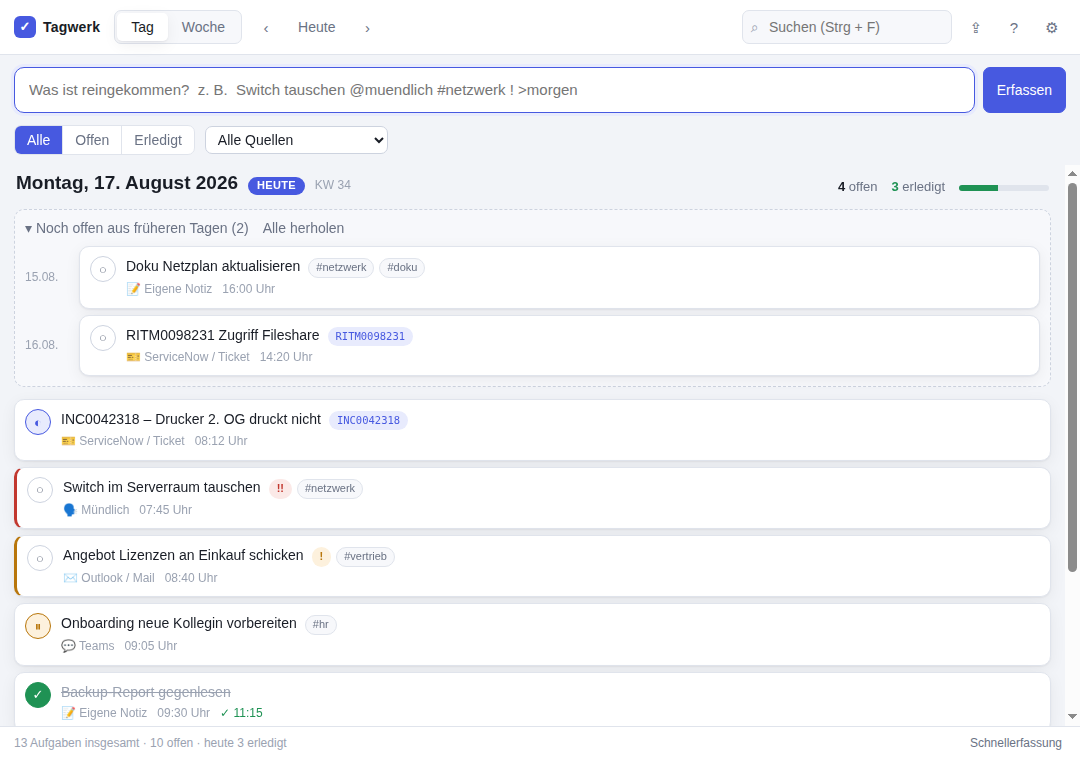
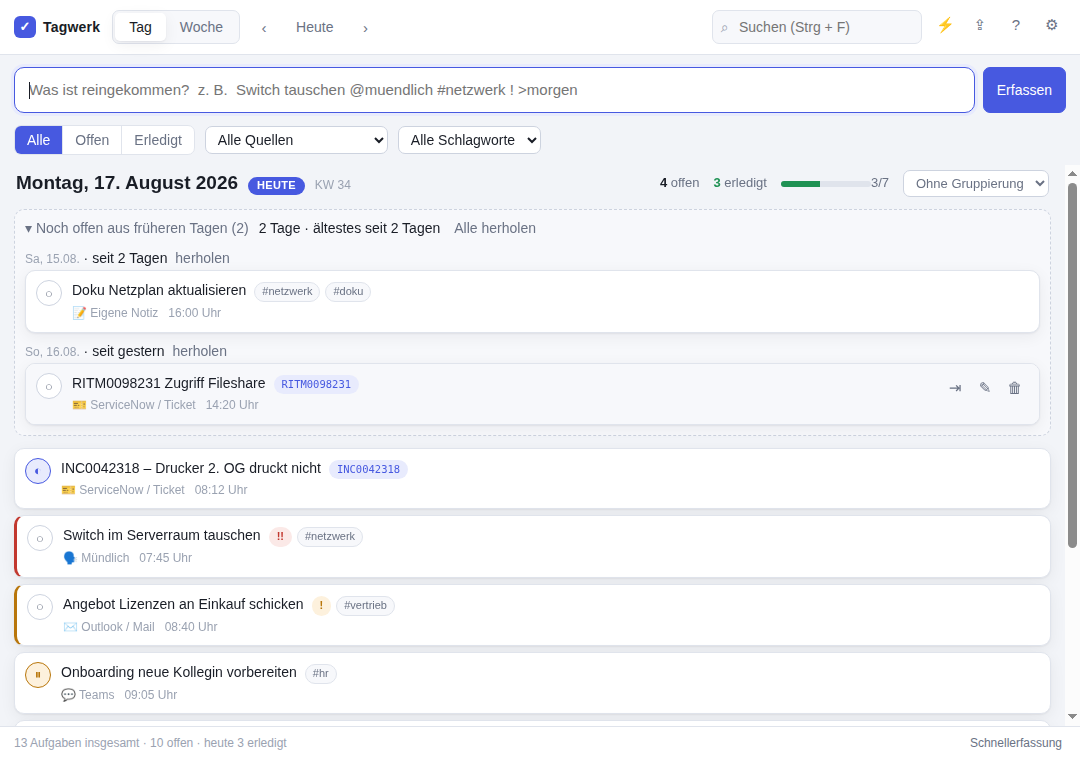
README auf den aktuellen Stand bringen
Die Anleitung beschrieb noch die erste Fassung: neue Erfassungssyntax,
Listen-Tastaturbedienung, Exportformate, der Sicherungsordner und die
neuen Quellen fehlten. Screenshots neu aufgenommen.

Claude-Session: https://claude.ai/code/session_01K9Moez6T45sF8Cm2ENfgmF

diff --git a/README.md b/README.md
@@ -10,19 +10,29 @@ steht da, was man gemacht hat.
 ## Was die App kann
 
 - **Erfassen in einer Zeile** – Quelle, Tags, Priorität und Zieltag stehen mit
-  im Text (`Switch tauschen @muendlich #netzwerk ! >morgen`), der Rest wird
-  automatisch erkannt.
+  im Text (`Switch tauschen @muendlich #netzwerk ! >nächste woche`), der Rest
+  wird automatisch erkannt. Beim Tippen werden `@quellen` und `#schlagworte`
+  vervollständigt.
 - **Schnellerfassung per globalem Tastenkürzel** (`Strg + Alt + T`) – ein
   kleines Fenster erscheint über allem anderen, auch wenn Tagwerk gerade im
   Hintergrund läuft. Tippen, Enter, weg.
 - **Tages- und Wochenansicht** – die Woche als Spalten, Aufgaben lassen sich
-  zwischen den Tagen ziehen.
+  zwischen den Tagen ziehen. Die Tagesliste lässt sich nach Status oder Quelle
+  gruppieren.
+- **Ohne Maus bedienbar** – durch die Liste blättern, erledigen, bearbeiten,
+  verschieben, mehrere auswählen: alles über die Tastatur.
 - **Nichts fällt hinten runter** – offene Aufgaben aus früheren Tagen stehen
-  oben in der Tagesansicht und lassen sich mit einem Klick herholen.
+  oben in der Tagesansicht, nach Tagen gebündelt, und lassen sich mit einem
+  Klick herholen.
 - **Vier Zustände**: offen → in Arbeit → wartet → erledigt, per Klick auf den
   Kreis links durchschaltbar.
-- **Export** als Markdown (für den Wochenbericht oder eine Mail), CSV (Excel)
-  oder JSON (Sicherung). Auch direkt in die Zwischenablage.
+- **Export** als Markdown-Bericht mit Kennzahlen, als **HTML zum Einfügen in
+  eine Outlook-Mail** (Outlook versteht kein Markdown), als Standup-Liste, als
+  CSV für Excel oder als JSON zur Sicherung – wahlweise in eine Datei oder
+  direkt in die Zwischenablage, gegliedert nach Tag, Kalenderwoche, Quelle
+  oder Schlagwort.
+- **Die Daten sind sicher** – atomares Schreiben, tägliche Sicherungen mit
+  Rotation, Sicherung vor jeder riskanten Aktion.
 - **Läuft im Infobereich weiter**, wenn man das Fenster schließt.
 - **Hell/Dunkel** nach Systemeinstellung oder fest gewählt.
 
@@ -34,7 +44,7 @@ steht da, was man gemacht hat.
 npm install     # einmalig, lädt Electron herunter
 npm start       # App starten
 npm run dev     # dasselbe mit geöffneten Entwicklertools
-npm test        # Tests für Datum, Parser, Export und Persistenz
+npm test        # 108 Tests für Datum, Parser, Export und Persistenz
 ```
 
 Getestet mit Node 22 und Electron 43.
@@ -47,15 +57,21 @@ Alles kommt in eine Zeile, die Reihenfolge ist egal:
 
 | Eingabe | Bedeutung |
 | --- | --- |
-| `@teams` | Quelle. Möglich: `@teams` `@mail` `@ticket` `@muendlich` `@telefon` `@meeting` `@selbst` `@sonstiges` |
+| `@teams` | Quelle: `@teams` `@mail` `@ticket` `@jira` `@muendlich` `@telefon` `@meeting` `@vorort` `@wiki` `@selbst` `@sonstiges` |
 | `#netzwerk` | Schlagwort, beliebig viele |
 | `!` bzw. `!!` | Priorität hoch bzw. dringend |
-| `>morgen` | Zieltag: `>heute` `>morgen` `>uebermorgen`, Wochentage `>mo`…`>so`, `>+3`, `>24.12.` |
-| `INC0012345` | Ticketnummern (INC, RITM, REQ, CHG, PRB, SCTASK, TASK, KB) werden als Referenz erkannt und setzen die Quelle auf Ticket |
+| `>morgen` | Zieltag: `>heute` `>morgen` `>uebermorgen`, Wochentage `>mo`…`>so`, `>+3`, `>24.12.`, `>2026-12-24` |
+| `>nächste woche` | Auch in Worten: `>ende der woche` `>nächsten montag` `>kw35` `>monatsende` `>in 3 tagen` `>in 2 wochen` |
+| `INC0012345` | Ticketnummern (INC, RITM, REQ, CHG, PRB, SR, SCTASK, CTASK, TASK, KB) werden als Referenz erkannt und setzen die Quelle auf Ticket – auch aus einem eingefügten ServiceNow- oder Jira-Link |
 
-Unter dem Feld steht live, was erkannt wurde. Alles, was nicht erkannt wird,
-bleibt einfach Teil des Titels – `Umsatz >1000 prüfen` wird also nicht
-versehentlich verschoben.
+Kurzformen und Tippfehler bei der Quelle sind erlaubt: `@out` → Outlook,
+`@snow` → ServiceNow, `@tems` → Teams. Umlaute spielen keine Rolle
+(`@Mündlich` = `@muendlich`).
+
+Unter dem Feld steht live, was erkannt wurde. Alles, was **nicht sicher**
+erkannt wird, bleibt einfach Teil des Titels – `Umsatz >1000 prüfen` wird also
+nicht versehentlich verschoben, und eine mehrdeutige Abkürzung wie `@m` (Mail?
+Meeting? Mündlich?) wird bewusst nicht geraten, sondern stehen gelassen.
 
 ### Tastenkürzel
 
@@ -63,16 +79,34 @@ versehentlich verschoben.
 | --- | --- |
 | `Strg + Alt + T` | Schnellerfassung – wirkt systemweit (in den Einstellungen änderbar) |
 | `Strg + N` | Cursor in die Erfassungszeile |
+| `Tab` | In der Erfassungszeile: nächster Vorschlag für `@quelle` / `#tag` |
 | `Strg + F` | Suchen |
+| `Strg + Umschalt + F` | Alle Filter zurücksetzen |
 | `Strg + 1` / `Strg + 2` | Tages- / Wochenansicht |
 | `Strg + E` | Exportieren |
 | `Strg + ,` | Einstellungen |
 | `Alt + ←` / `Alt + →` | einen Tag bzw. eine Woche zurück / vor |
 | `Alt + ↓` | zurück zu heute |
 | `F1` | Kurzanleitung |
-| `Esc` | Suche leeren, Bearbeitung abbrechen, Schnellerfassung schließen |
+| `Esc` | Vorschlag verwerfen, Feld leeren, Filter zurücksetzen, Dialog schließen |
 
-In der Bearbeitungsmaske speichert `Strg + Enter`.
+In der Liste (sobald eine Karte den Fokus hat):
+
+| Kürzel | Wirkung |
+| --- | --- |
+| `↑` / `↓` | durch die Aufgaben blättern (in der Wochenansicht auch `←` / `→`) |
+| `Leertaste` | erledigt / wieder offen |
+| `Enter` | auf- und zuklappen |
+| `e` | bearbeiten |
+| `m` | einen Tag weiterschieben (Liegengebliebenes auf heute) |
+| `x` | auswählen – mehrere auf einmal bearbeiten |
+| `Umschalt + ↑`/`↓` | mehrere am Stück auswählen |
+| `Entf` | löschen (mit Rückgängig-Hinweis) |
+
+In der Bearbeitungsmaske speichert `Strg + Enter`. In der Schnellerfassung
+speichert `Umschalt + Enter`, ohne das Fenster zu schließen – so lassen sich
+mehrere Aufgaben hintereinander erfassen; `↑`/`↓` blättert durch die zuletzt
+erfassten Zeilen.
 
 ## Wo liegen die Daten?
 
@@ -86,10 +120,26 @@ direkt hin.
 | macOS | `~/Library/Application Support/Tagwerk/tagwerk-data.json` |
 | Linux | `~/.config/Tagwerk/tagwerk-data.json` |
 
-Daneben liegen `settings.json` (Einstellungen, Fensterposition) und
-`tagwerk-data.json.bak` – die jeweils vorherige Fassung der Daten. Geschrieben
-wird gebündelt und atomar (erst `.tmp`, dann umbenennen), ein Absturz mitten im
-Speichern kostet also höchstens die letzte Sekunde.
+Daneben liegen `settings.json` (Einstellungen, Fensterposition),
+`tagwerk-data.json.bak` (die jeweils vorherige Fassung) und der Ordner
+`backups/`:
+
+| Datei | wann sie entsteht |
+| --- | --- |
+| `tag-JJJJ-MM-TT.json` | einmal täglich beim Start, die letzten 14 Tage (einstellbar) |
+| `sicherung-<zeit>-<grund>.json` | vor riskanten Aktionen: Import, Aufräumen, Wiederherstellen |
+| `defekt-<zeit>.json` | eine unlesbare Datendatei wird weggesichert, nie überschrieben |
+| `konflikt-<zeit>.json` | jemand anders hat die Datei verändert (zweite Instanz, Cloud-Ordner) |
+
+Geschrieben wird gebündelt und wirklich atomar: erst in eine `.tmp`-Datei,
+dann `fsync`, dann umbenennen, dann das Verzeichnis synchronisieren. Ohne das
+`fsync` stünde nach einem Stromausfall zwar der richtige Dateiname da –
+möglicherweise aber mit leerem Inhalt.
+
+Stammt die Datei aus einer neueren Programmversion oder lässt sie sich nicht
+schreiben, rührt Tagwerk sie **nicht** an, sondern legt Änderungen in einer
+Notablage ab und sagt Bescheid. Lieber ein sichtbarer Fehler als stiller
+Datenverlust.
 
 ## Aufbau des Projekts
 
@@ -174,8 +224,9 @@ Ein paar naheliegende Stellen:
 - **Neuer Status**: `STATUSES` und `STATUS_CYCLE` in derselben Datei, dazu eine
   Farbregel in `styles.css` (`.item[data-status='…']`).
 - **Weitere Ticket-Präfixe**: `REF_PATTERN` in `src/shared/parse.js`.
-- **Anderes Exportformat**: eine Funktion in `src/shared/export.js` und ein
-  Eintrag im Format-Auswahlfeld in `dialogs.js`.
+- **Anderes Exportformat**: eine Funktion in `src/shared/export.js`, einen
+  Eintrag in dessen `FORMATS` und einen Zweig in `build()` – der Export-Dialog
+  liest die Liste selbst aus und zeigt das Format ohne weiteres Zutun an.
 - **Eigenes Icon**: die PNGs in `assets/` ersetzen (oder `scripts/make-icons.js`
   anpassen und `npm run icons` laufen lassen).
 
